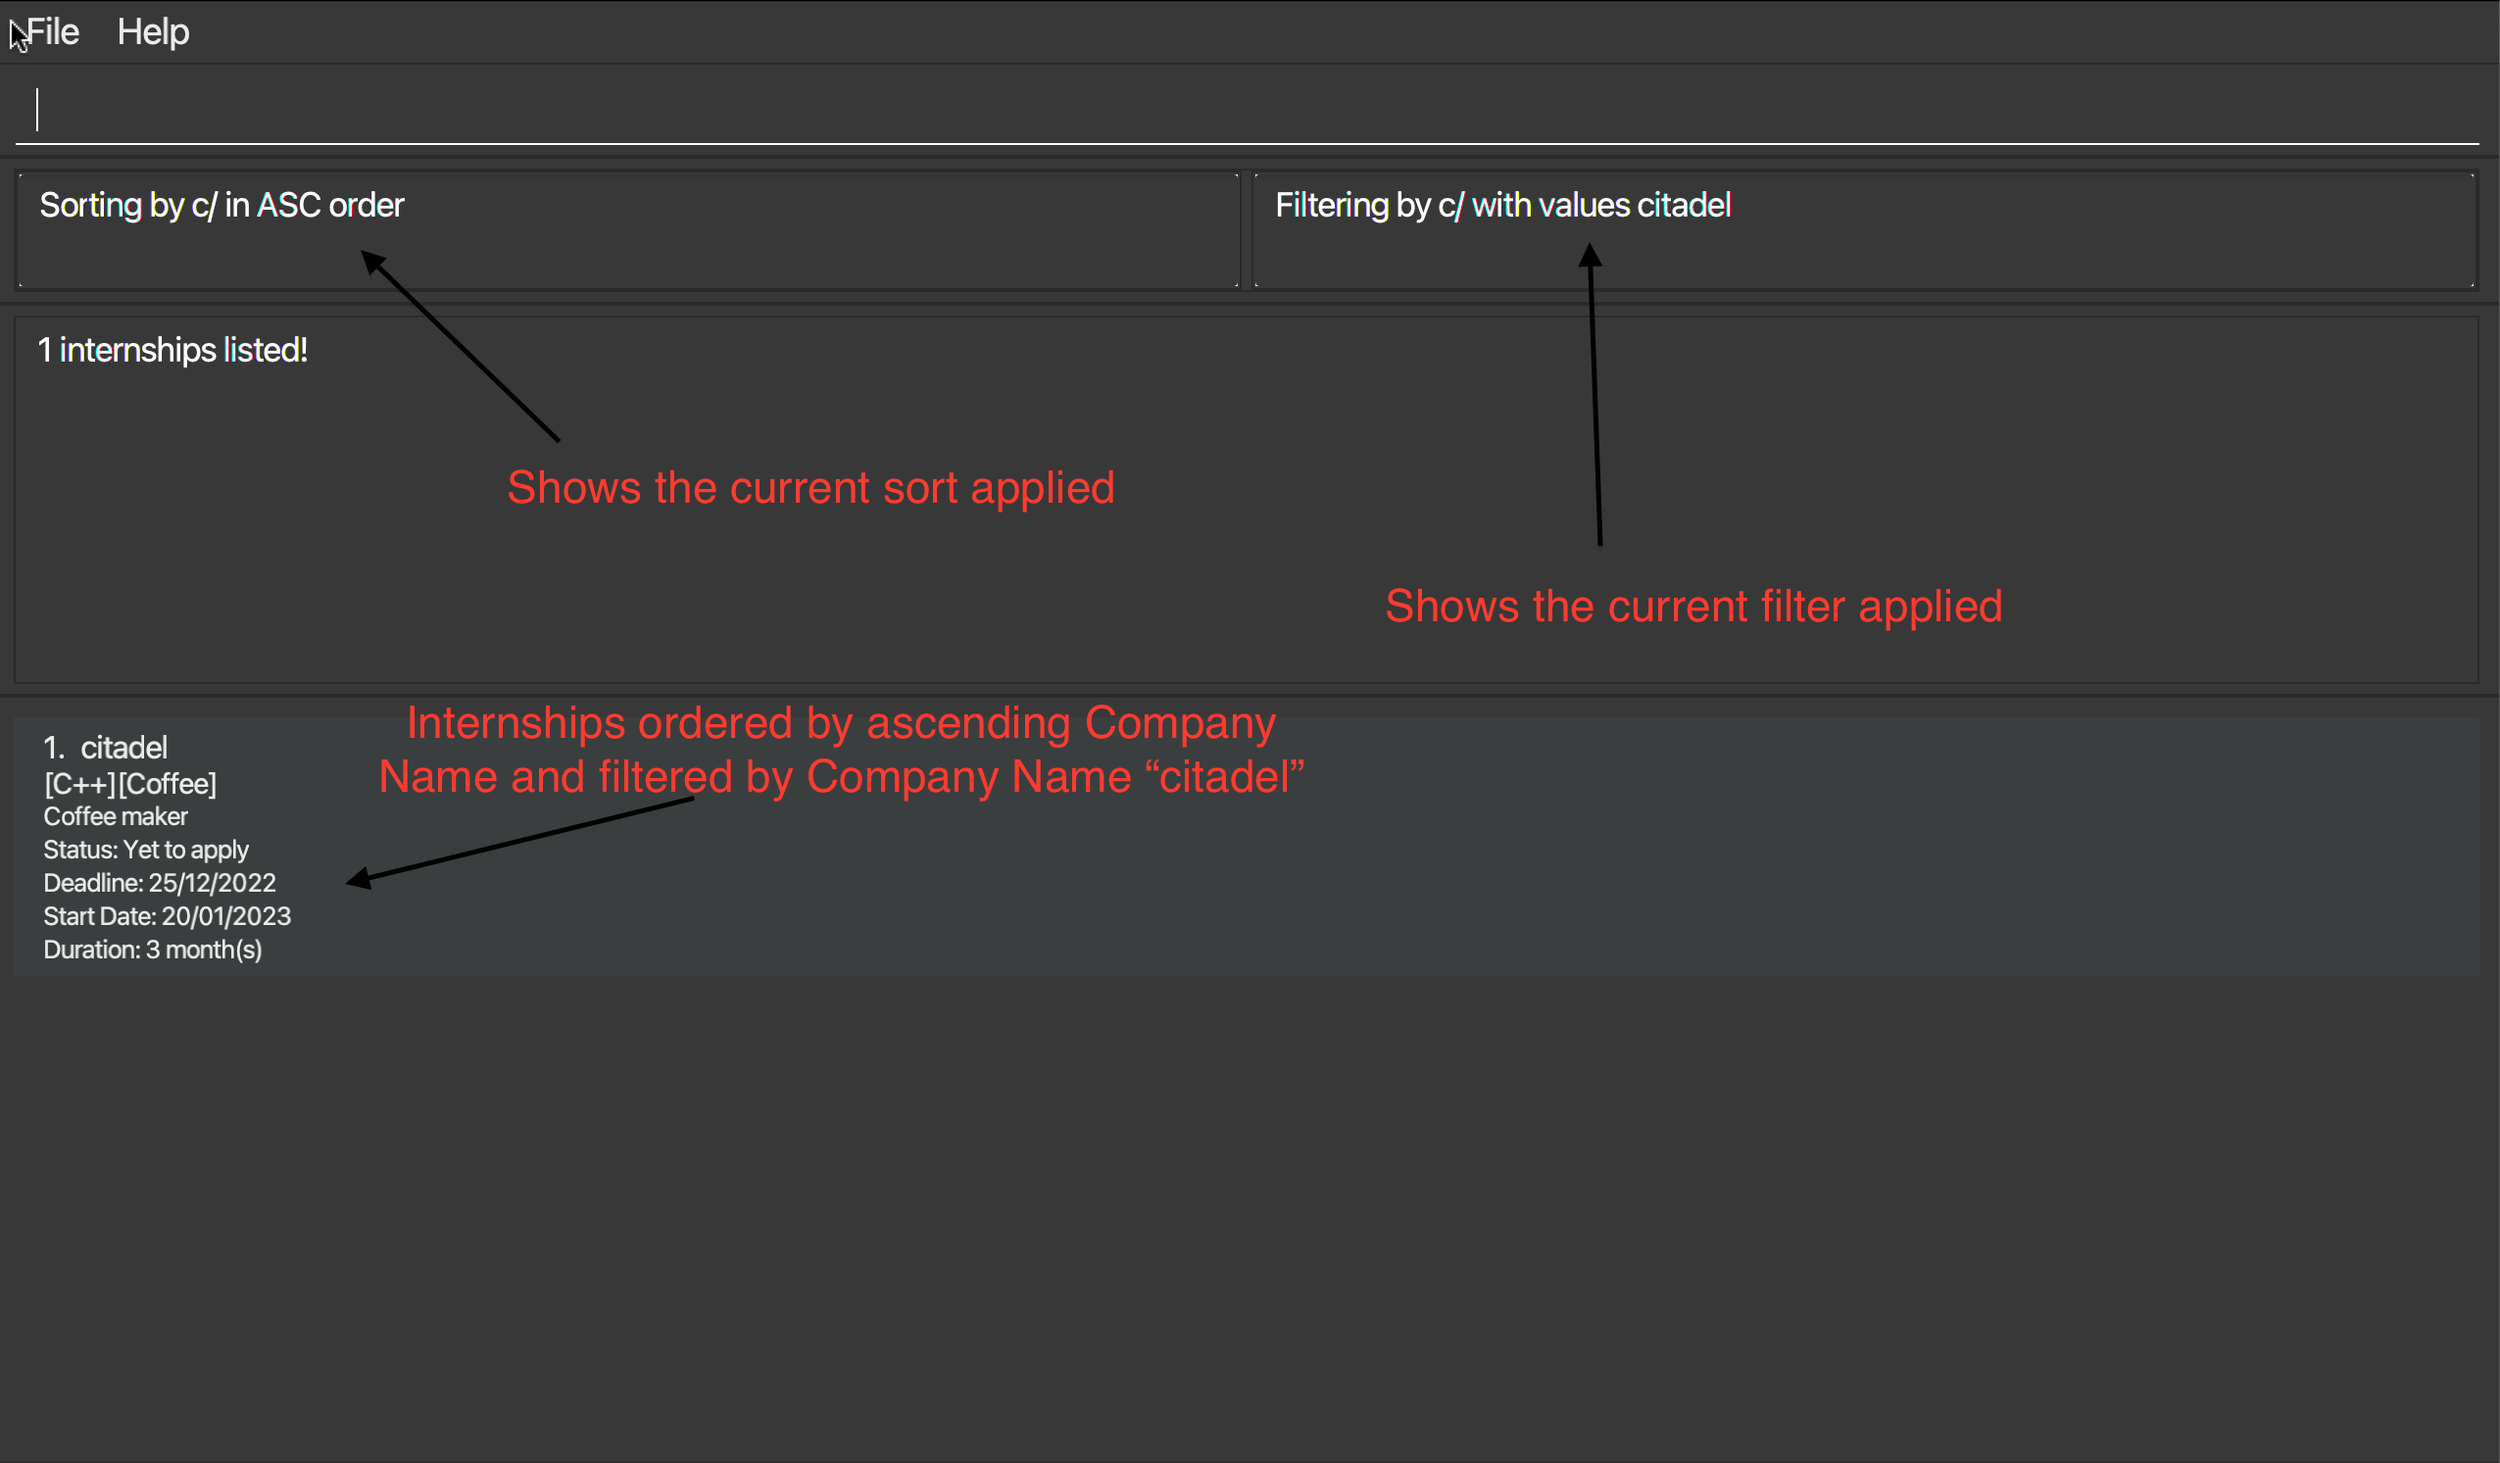
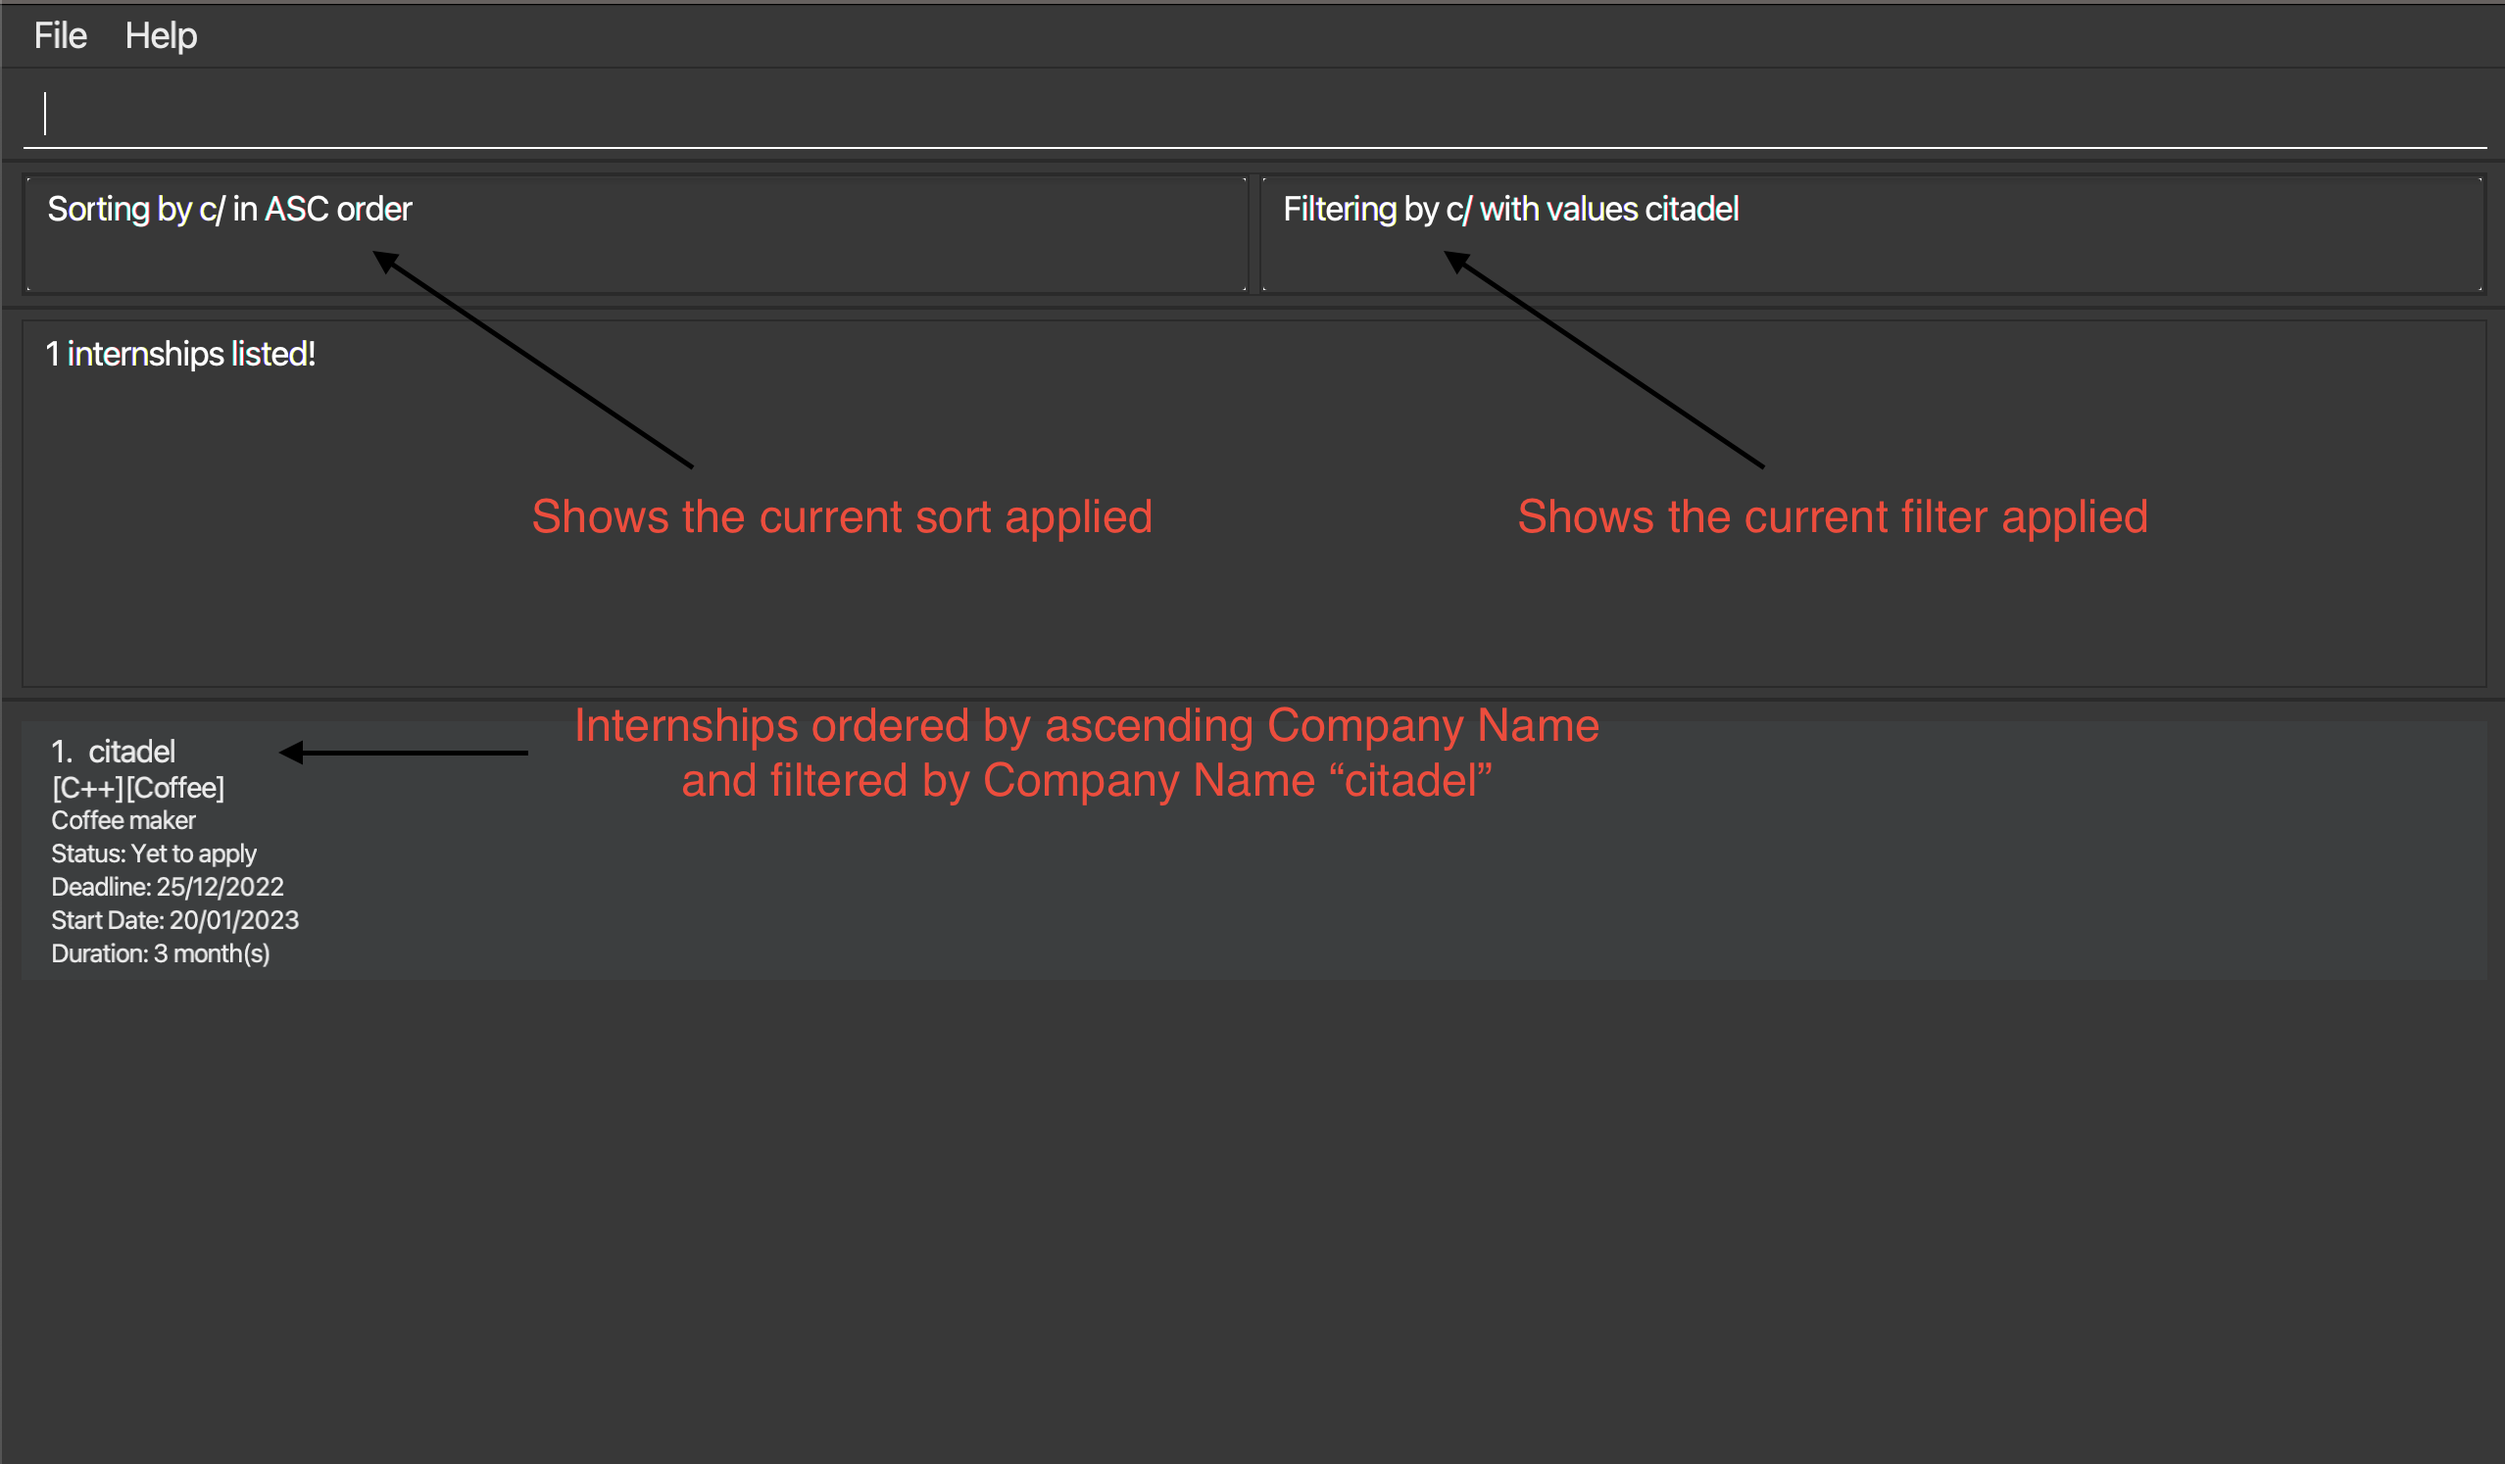
Change filter command image for UG

diff --git a/docs/UserGuide.md b/docs/UserGuide.md
@@ -219,10 +219,10 @@ Update details of an existing internship entry.
 
 ### Filter Internships by Category and Keyword/Range: `filter`
 
-Want to focus only on relevant internship entries based on certain constraints? Filter internship entries by inputting any category. There are 2 category types: type 1 accepting text inputs and type 2 accepting a range of values. The category types are as follows:
+Want to focus only on relevant internship entries based on certain constraints? Filter internship entries by inputting any category. There are 2 category types: `CATEGORY_TYPE1` accepting text inputs and `CATEGORY_TYPE2` accepting a range of values. The category types are as follows:
 
-* Category type 1: company name, role, requirements
-* Category type 2: duration, deadline
+* `CATEGORY_TYPE1`: `COMPANY_NAME`, `ROLE`, `APPLICATION_STATUS`, `REQUIREMENTS`
+* `CATEGORY_TYPE2`: `DEADLINE`, `START_DATE`, `DURATION`
 
 Format 1: `filter [CATEGORY_TYPE1]/[KEYWORD]`
 
@@ -240,7 +240,8 @@ Format 2: `filter [CATEGORY_TYPE2]/[START-END]`
 </div>
 
 Examples:
-* `filter du/3-6` displays internship entries that have duration within the range 3 to 6 inclusive.
+* `filter du/3-6` displays internship entries that have duration within the range 3 to 6 months inclusive.
+* `filter du/4-4` displays internship entries that have duration of 4 months.
 
 
 Format 3: `filter default`
@@ -253,7 +254,7 @@ Examples:
 </div>
 
 **Expected Output**:
-![Filter](images/filterAnnotated.jpg)
+![Filter](images/FilterAnnotated.png)
 
 ### Sort Internships by Category and Order: `sort`
 
